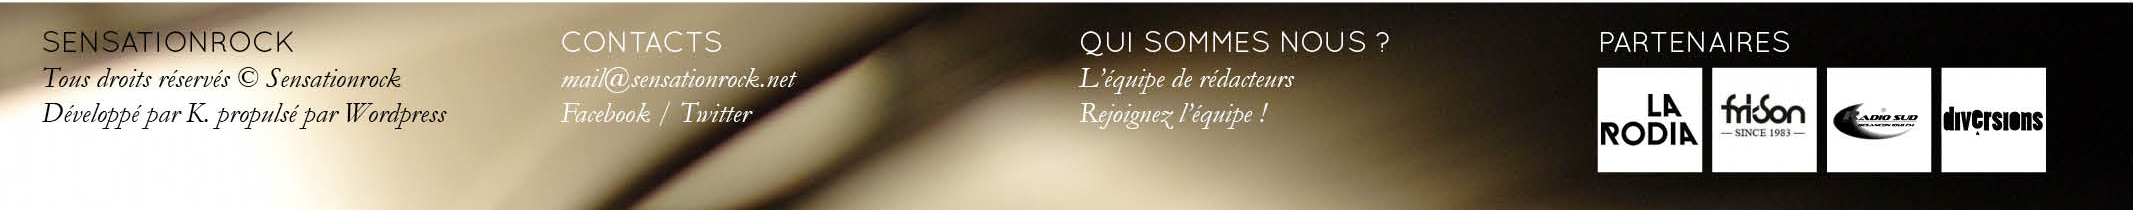
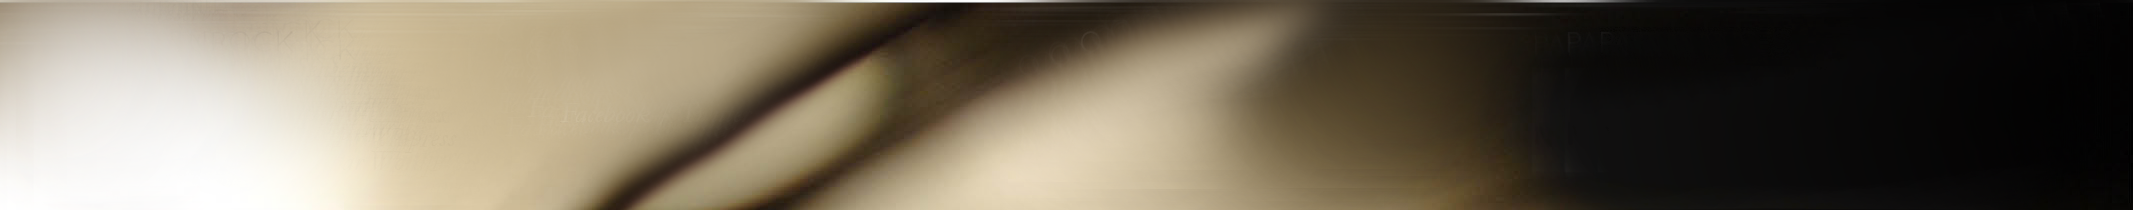
Modifs

diff --git a/index.html b/index.html
@@ -8,7 +8,7 @@
 
     <!-- Bootstrap -->
     <link href="css/bootstrap.min.css" rel="stylesheet">
-    <link href="css/spritesIcoMoon.css" rel="stylesheet">
+    <!--<link href="css/spritesIcoMoon.css" rel="stylesheet">-->
 	
     <!-- Sensation Rock -->
     <link href="css/sr.css" rel="stylesheet">
@@ -24,7 +24,7 @@
     <div class="container">
 		<div id="bandeautop">
 		</div>
-		<div class="navbar navbar-default">
+		<header class="navbar navbar-default navbar-small">
 			<div class="container">
 			  <div class="navbar-collapse collapse">
 				<ul class="nav navbar-nav">
@@ -46,11 +46,15 @@
 				  <li><a href="#about">Misc.</a></li>
 				  <li><a href="#about">Sur nos platines</a></li>
 				  <li><a href="#about">Recherche <i class="glyphicon glyphicon-search" ></i></a></li>
-				  <li><a href="#about"><span class="iconMoon-facebook3"></span><span class="iconMoon-twitter3"></span><span class="iconMoon-feed4"></span></a></li>
+				  <li>
+					<a href="#fb" class="navbar-right"><img src="images/fb.png" width="20px" /></a>
+					<a href="#twt" class="navbar-right"><img src="images/twt.png" width="20px" /></a>
+					<a href="#rss" class="navbar-right"><img src="images/rss.png" width="20px" /></a>
+				  </li>
 				</ul>
 			  </div><!--/.nav-collapse -->
 			</div>
-		</div>
+		</header>
 		<div class="row">
 			<div class="col-md-9">
 				<div class="row articles">
@@ -116,41 +120,41 @@
 							Développé par K. propulsé par Wordpress
 						</p>
 					</div>
-					<div class="col-md-3">
+					<div class="col-md-3 white">
 						<h4>Contact</h4>
 						<p>
 							mail@sensationrock.net<br />
 							<a href="#fb">Facebook</a> / <a href="#twitter">Twitter</a>
 						</p>
 					</div>
-					<div class="col-md-3">
+					<div class="col-md-3 white">
 						<h4>Qui sommes nous ?</h4>
 						<p>
 							<a href="#redac">L'équique de redacteurs</a>
 							<a href="#postul">Rejoignez l'équipe !</a>
 						</p>
 					</div>
-					<div class="col-md-3">
+					<div class="col-md-3 white">
 						<h4>Partenaires</h4>
 						<div class="row">
 							<div class="col-md-3">
-								<a href="#" class="thumbnail">
-									<img src="images/partenaire_larodia.png" />
+								<a href="#" class="">
+									<img src="images/partenaire_larodia.png"/>
 								</a>
 							</div>
 							<div class="col-md-3">
-								<a href="#" class="thumbnail">
-									<img src="images/partenaire_fri-son.png" />
+								<a href="#" class="">
+									<img src="images/partenaire_fri-son.png"/>
 								</a>
 							</div>
 							<div class="col-md-3">
-								<a href="#" class="thumbnail">
-									<img src="images/partenaire_radiosud.png" />
+								<a href="#" class="">
+									<img src="images/partenaire_radiosud.png"/>
 								</a>
 							</div>
 							<div class="col-md-3">
-								<a href="#" class="thumbnail">
-									<img src="images/partenaire_diversions.png" />
+								<a href="#" class="">
+									<img src="images/partenaire_diversions.png"/>
 								</a>
 							</div>
 						</div>

diff --git a/css/sr.css b/css/sr.css
@@ -1,6 +1,5 @@
 body>.container {
 	width:1280px;
-	border:1px solid red;
 	font-size:0.9em;
 }
 
@@ -9,8 +8,48 @@ body>.container {
 	height:214px;
 }
 
+footer {
+	background-image:url('../images/footer.png');
+	background-size:100%;
+	height:120px;
+}
+
+footer .white, footer .white a {
+	color:white;
+}
+
+footer h4 {
+	text-transform:uppercase;
+	margin-bottom:5px;
+}
+
+footer > div > div > div:last-child {
+	padding-right:70px;
+}
+
+footer > div > div > div:last-child > div  > div{
+	padding-right:0px;
+	padding-left:5px;
+}
+footer > div > div > div:last-child > div  > div:first-child {
+	margin-left:10px;
+}
+
+footer > div > div > div:last-child img{
+	width:100%;
+}
+
 .navbar-nav, .uppercase {
 	text-transform:uppercase;
+}
+
+.navbar {
+	min-height:20px;
+}
+
+.navbar-nav > li > a {
+    padding-bottom: 5px;
+    padding-top: 5px;
 }
 
 .articles div {
